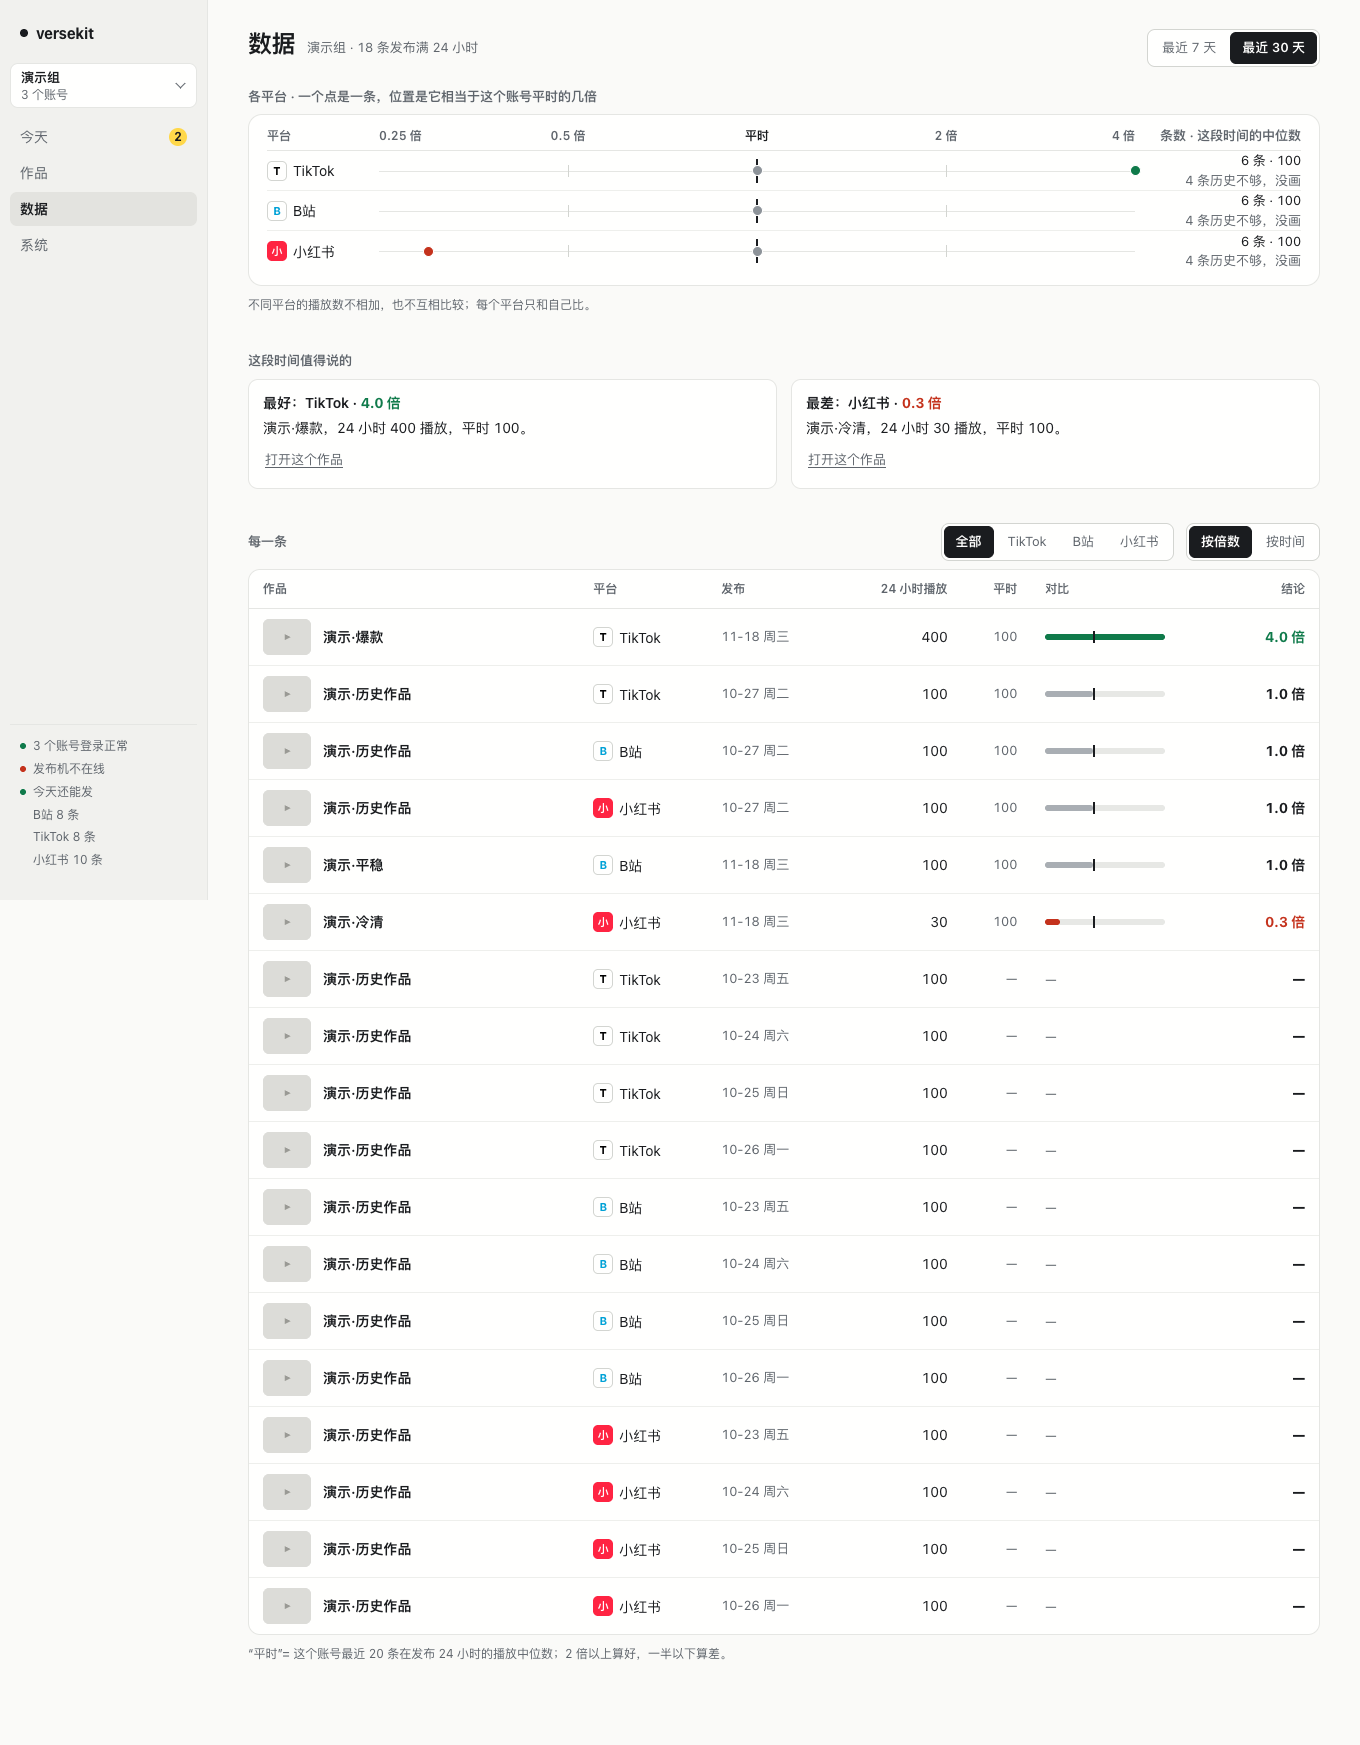
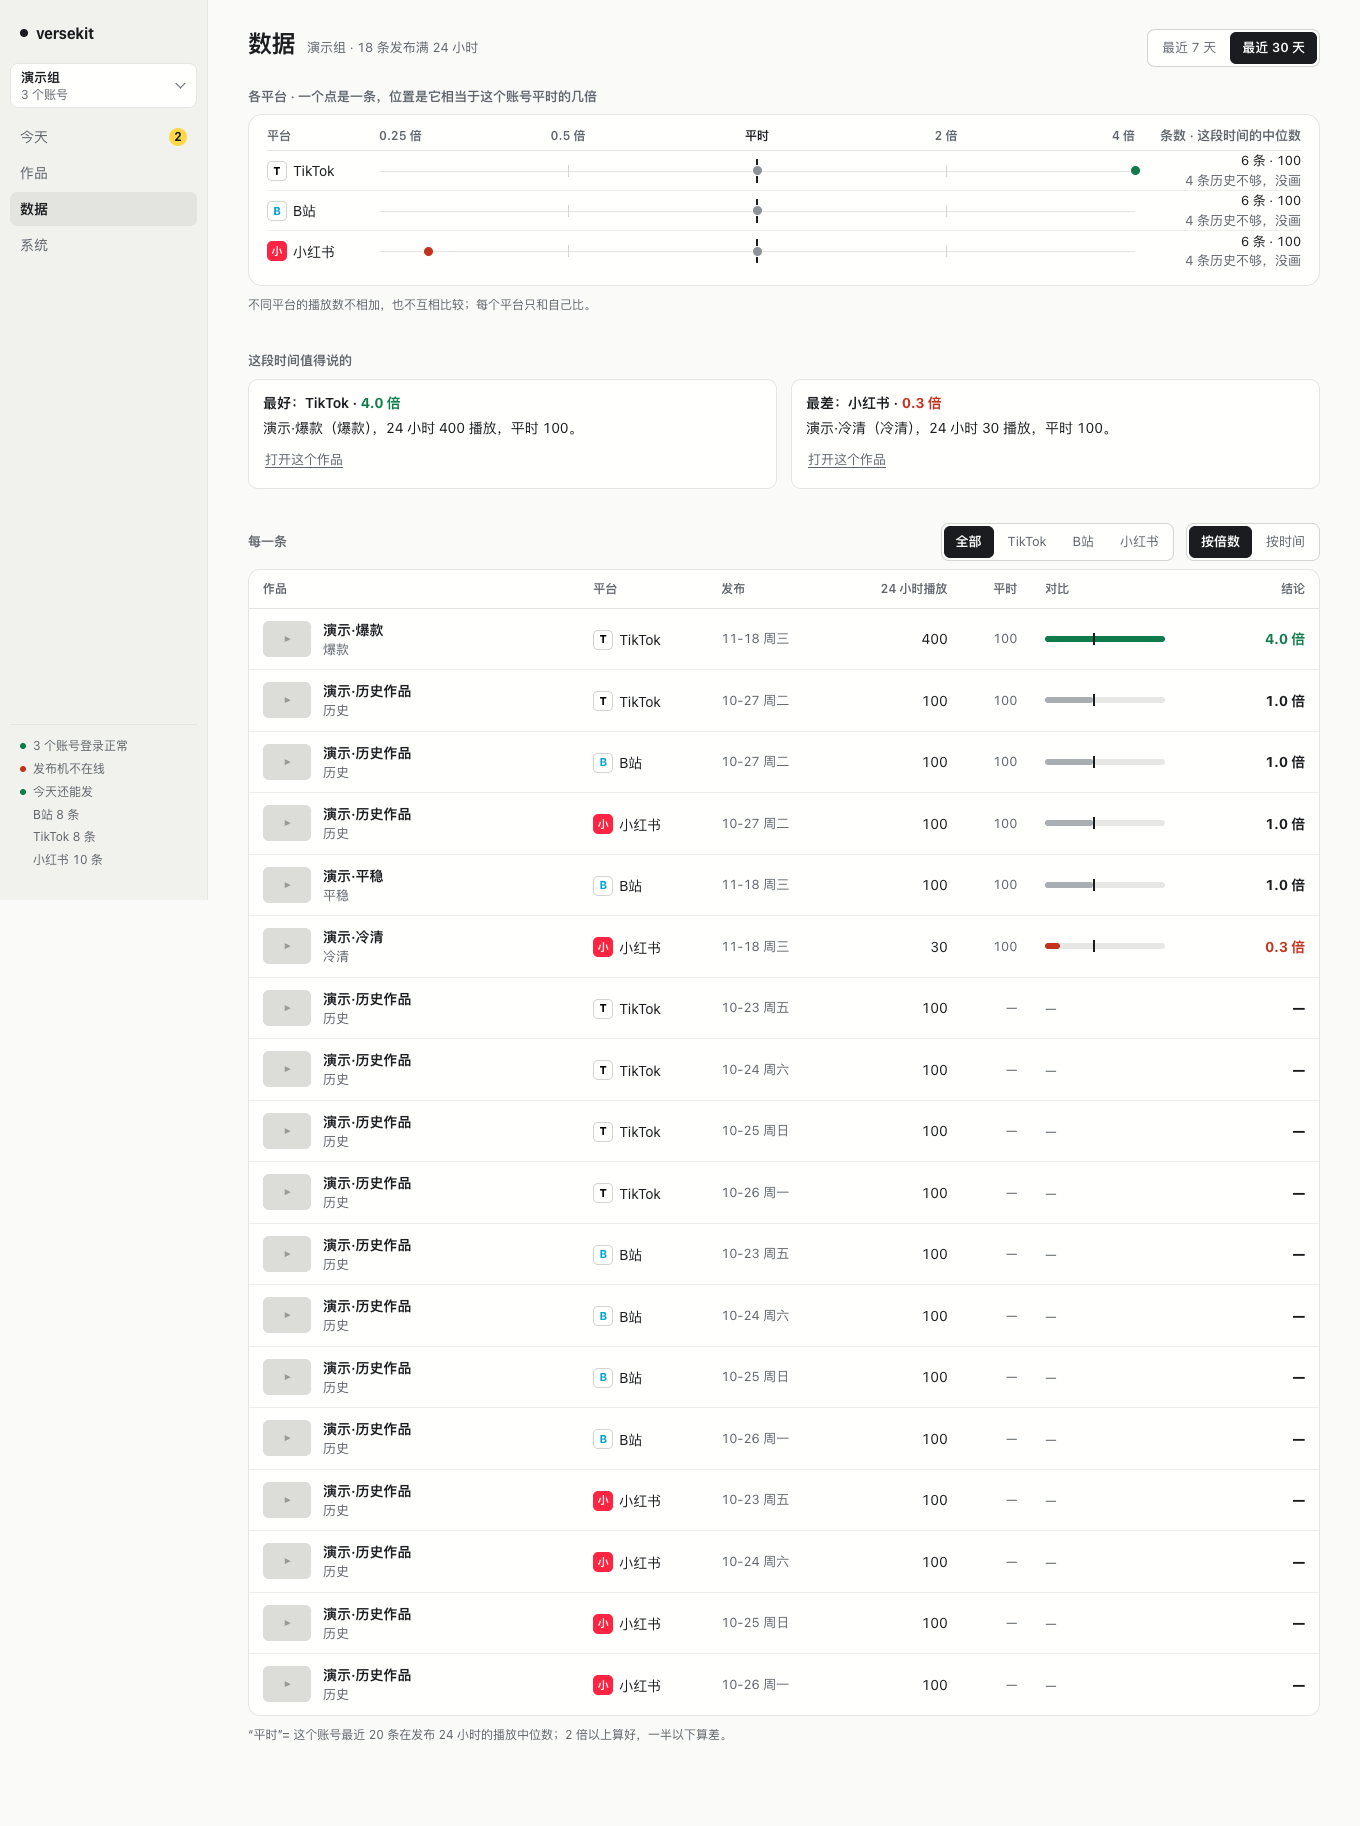
fix(core): 返工 #267——系统页离线提示模板原样显示、数据页每条补成片名
离线提示用了普通引号，${} 没有渲染；数据页的平台稿没记 cut_id 时 cutTitle 为空，
改为作品只有一支成片时用它的名字（多支又说不清的不猜）。fid-12 测试补两条。

diff --git a/packages/web/public/system.html b/packages/web/public/system.html
@@ -421,8 +421,8 @@
     const behind = u?.lastCheck && !u.lastCheck.up_to_date;
     let act = "";
     if (!ui.upd && u) {
-      const dis = !online ? ' disabled title="${esc(machineName())}不在线，上线后才能更新"' : "";
-      act = `<span class="acts">${B("data-updnow", "现在更新", behind ? "btn" : "link", dis)}</span>${!online ? '<div class="sub">${esc(machineName())}不在线，上线后才能更新</div>' : ""}`;
+      const dis = !online ? ` disabled title="${esc(machineName())}不在线，上线后才能更新"` : "";
+      act = `<span class="acts">${B("data-updnow", "现在更新", behind ? "btn" : "link", dis)}</span>${!online ? `<div class="sub">${esc(machineName())}不在线，上线后才能更新</div>` : ""}`;
     }
     const lu = ui.update?.lastUpdate;
     const notes = ui.notesOpen && lu?.commits?.length
